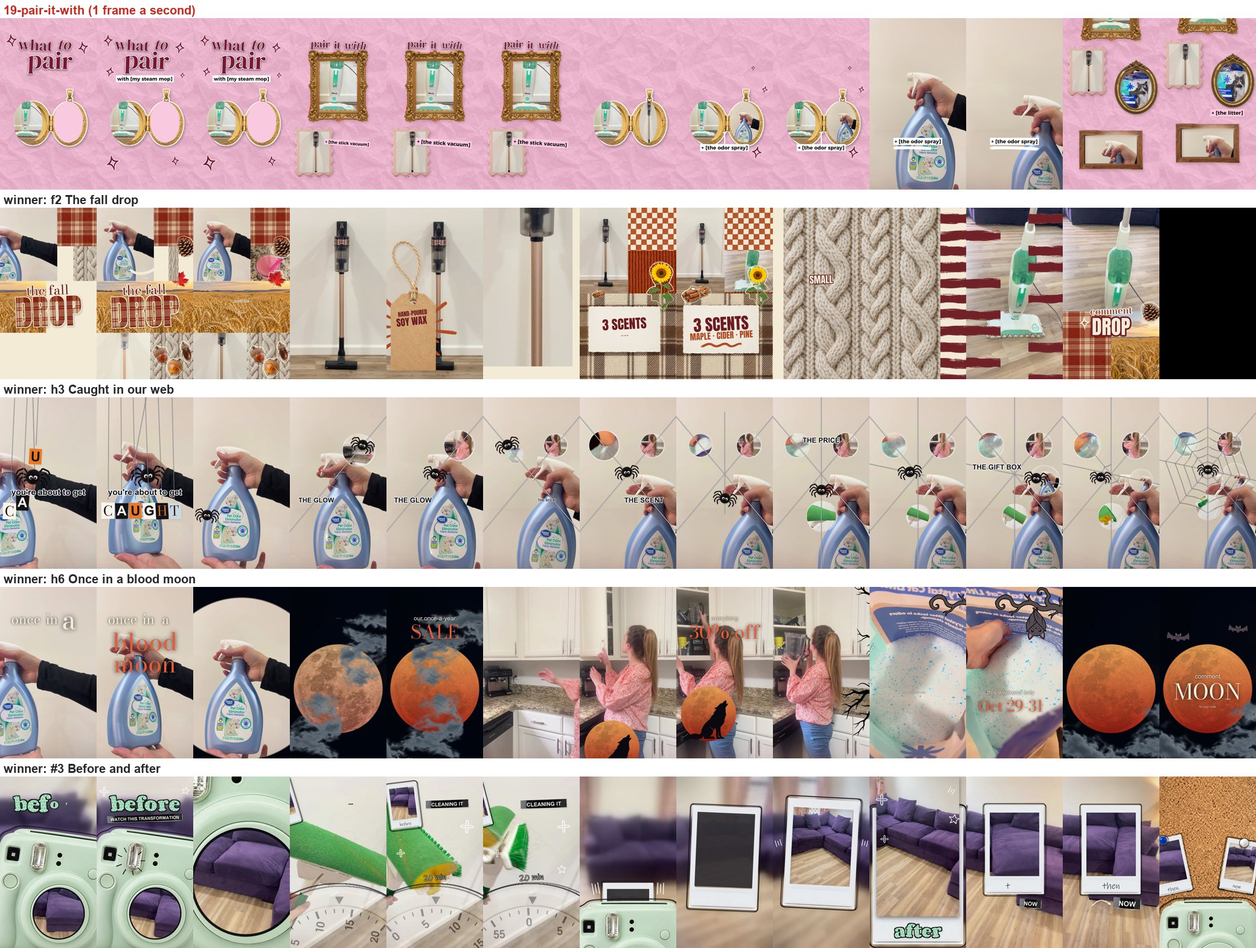
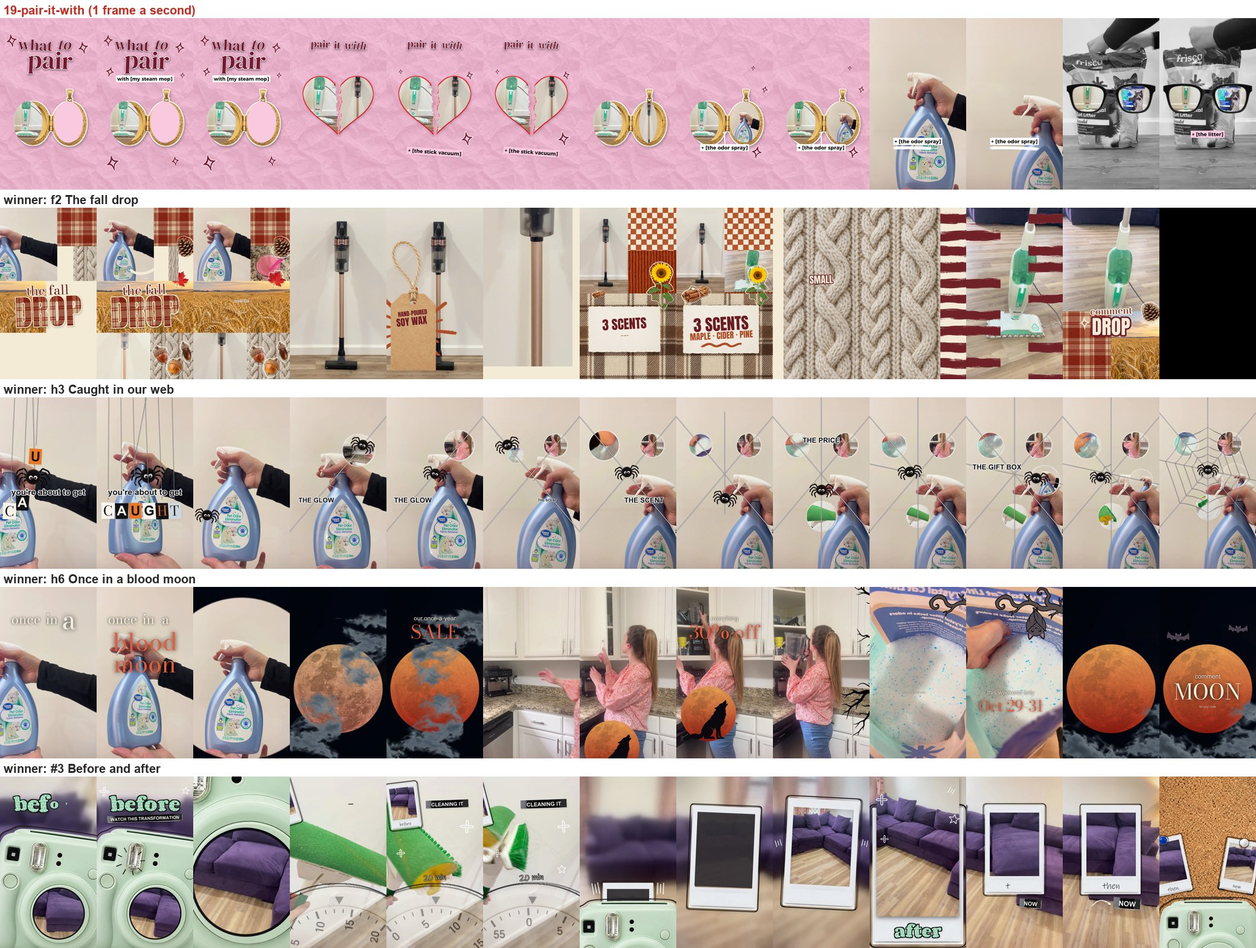
Reel Template Packs #19 rebuilt around pairs (locket halves, torn heart halves, glasses lenses); gallery wall saved as a product-Reel idea in FRAMEWORK

Changed region(s): [[0.8438, 0.0, 1.0, 0.2185], [0.2188, 0.0312, 0.4688, 0.1873]]

diff --git a/automation/reel-template-pack/build/motion_19.py b/automation/reel-template-pack/build/motion_19.py
@@ -19,13 +19,14 @@ Usage: python build/motion_19.py [seconds ...]  ->  19-pair-it-with/preview/moti
 """
 import math, sys
 from pathlib import Path
-from PIL import Image, ImageDraw, ImageOps
+from PIL import Image, ImageChops, ImageDraw, ImageOps
 sys.path.insert(0, str(Path(__file__).resolve().parent))
 import collage as C
+from PIL import ImageFilter
 import storyboard_b2 as S
 import play as P
 import play_extra as X
-from story4 import swipe, diagonal
+from story4 import swipe, diagonal, roundwin
 from collage_kit import doodle, doodle_on
 from motion_b2 import Clip, put, render, camera, ease, back_out, seg, lerp, lerp2, W, H, WHITE
 
@@ -48,6 +49,16 @@ def setup():
                    'pink': (fr_('Blush pink scalloped portrait frame-5', 470), (0.22, 0.175, 0.80, 0.82), True),
                    'oval': (fr_('Vintage oval brass frame with floral crest-4', 480), (0.10, 0.20, 0.90, 0.89), False),
                    'walnut': (fr_('Empty walnut picture frame-2', 720), (0.086, 0.12, 0.914, 0.88), False)}
+    # things that come in pairs (her note): a torn paper heart's two halves, glasses' two lenses
+    h = S.fitw(S.cut('images', 'Torn red paper heart halves-91.png', tol=18), 820); hm = h.split()[3].point(lambda v: 255 if v > 100 else 0)
+    left = hm.copy(); ImageDraw.floodfill(left, (int(h.width * 0.22), int(h.height * 0.4)), 128); left = left.point(lambda v: 255 if v == 128 else 0)
+    right = ImageChops.subtract(hm, left); g['heart'] = (h, left, right)
+    gl = S.fitw(S.cut('fall', 'Bold black acetate eyeglass front frame-4.png', tol=18, holes=((0.27, 0.5), (0.73, 0.5))), 1000)
+    lens = []
+    for fx in (0.27, 0.73):
+        m = Image.new('L', gl.size, 0); a = gl.split()[3].point(lambda v: 0 if v > 60 else 255); ImageDraw.floodfill(a, (int(gl.width * fx), int(gl.height * 0.5)), 128)
+        lens.append(a.point(lambda v: 255 if v == 128 else 0))
+    g['glasses'] = (gl, lens)
     g['tea'] = P.thing('Vintage Rose Porcelain Tea Set.png', 820, 'smalldots', WINE, scale=0.3, strength=0.35)
     g['what'] = P.caption('what to', 190, INK); g['pairw'] = P.caption('pair', 300, INK); g['with'] = X.hl('with [my steam mop]', 60, WHITE)
     g['plus'] = [X.hl(t, 62, (PINK, WHITE, PINK)[i]) for i, t in enumerate(('+ [the stick vacuum]', '+ [the odor spray]', '+ [the litter]'))]
@@ -85,9 +96,9 @@ def frame(g, t):
         P.say(im, g['what'], t, 0.05, (500, 300), -3); P.say(im, g['pairw'], t, 0.25, (560, 500), -2); P.say(im, g['with'], t, 0.55, (540, 680), 2)
         X.sparkles(im, t, 0.3, [(130, 250), (930, 330), (150, 600), (960, 640), (880, 1600), (180, 1620)], WINE, 170)
         return im
-    if t < 3.6:                                                    # 2: the gallery wall: the product in the gold frame, pairing 1 in the pink one
-        im = gallery(g, t, 0, 1.0, {'gold': c['main'].at(t), 'pink': c['p1'].at(t - 1.8)}, pink_in=1.9)
-        P.say(im, g['pair1'], t, 1.95, (540, 300), -2); P.say(im, g['plus'][0], t, 2.3, (640, 1400), -2)
+    if t < 3.6:                                                    # 2: a torn paper heart: the product in one half, pairing 1 in the other
+        im = heart(g, t, c['main'].at(t), c['p1'].at(t - 1.8))
+        P.say(im, g['pair1'], t, 1.95, (540, 300), -2); P.say(im, g['plus'][0], t, 2.6, (540, 1500), -2)
         if t < 1.95: im = diagonal(locket(g, t, c['main'].at(t), PINK), im, seg(t, 1.8, 1.95))
         if t > 3.35: im = swipe(im, close3(g, 3.6), seg(t, 3.35, 3.6), -1)
         return im
@@ -99,10 +110,9 @@ def frame(g, t):
         im = c['p2'].at(t - 3.8); P.say(im, g['plus'][1], t, 5.25, (540, 1380), 2); doodle_on(im, t, 5.6, g['under'], (540, 1460), -2)
         if t > 6.55: im = swipe(im, diag5(g, 6.8), seg(t, 6.55, 6.8))
         return im
-    if t < 8.4:                                                    # 5: the camera pans down the wall: pairing 3 in the oval frame
-        y = lerp(400, 980, ease(seg(t, 6.8, 7.4)))
-        im = gallery(g, t, y, 1.0, {'gold': c['main'].at(t), 'pink': c['p1'].at(t - 1.8), 'walnut': c['p2'].at(t - 3.8), 'oval': c['p3'].at(t - 6.8)})
-        P.say(im, g['plus'][2], t, 7.45, (760, 1060), 2)
+    if t < 8.4:                                                    # 5: glasses: the product in one lens, pairing 3 in the other
+        im = glasses(g, t, c['main'].at(t), c['p3'].at(t - 6.8))
+        P.say(im, g['plus'][2], t, 7.3, (540, 1300), 2)
         if t > 8.15: im = diagonal(im, stage6(g, t), seg(t, 8.15, 8.4))
         return im
     if t < 10.0:
@@ -131,6 +141,26 @@ def gallery(g, t, view_y, zoom, clips, pink_in=None):
     if zoom >= 1: return wall.crop((0, y, W, y + H))
     view = Image.new('RGBA', (vw, vh)); view.alpha_composite(g['stripes'].resize((vw, vh)), (0, 0)); view.alpha_composite(wall.crop((0, y, W, min(GH, y + vh))), (-x, 0))
     return view.resize((W, H), Image.BILINEAR)
+
+def heart(g, t, a, b):
+    """The two torn halves of a real paper heart slide together; the product plays in the left half, the pairing in the
+    right (the torn white edge stays)."""
+    h, left, right = g['heart']; im = g['stripes'].copy(); u = back_out(seg(t, 1.9, 2.5), 1.2); gap = lerp(300, 0, u)
+    for side, (m, cl) in enumerate(((left, a), (right, b))):
+        half = Image.new('RGBA', h.size, (0, 0, 0, 0)); half.alpha_composite(h); half.putalpha(m)
+        bb = m.getbbox(); v = Image.new('RGBA', h.size, (0, 0, 0, 0)); v.paste(ImageOps.fit(cl, (bb[2] - bb[0], bb[3] - bb[1]), centering=(0.5, 0.45)).convert('RGBA'), bb[:2])
+        v.putalpha(m.filter(ImageFilter.MinFilter(17))); half.alpha_composite(v); x = 540 + (-gap if side == 0 else gap); put(im, C.shadow(half, (8, 14), 14, 110), (x, 980), 1, (-6, 6)[side] * (1 - u))
+    if u >= 0.98: X.sparkles(im, t, 2.55, [(160, 600), (930, 640), (900, 1350)], WINE, 140)
+    return im
+
+def glasses(g, t, a, b):
+    """Glasses: colour inside the lenses, greyscale outside (her idea bank): the product in the left lens, the pairing in
+    the right, the pairing's clip in grey behind."""
+    gl, lens = g['glasses']; im = ImageOps.grayscale(b.convert('RGB')).convert('RGBA'); k = back_out(seg(t, 6.8, 7.2), 1.3)
+    for m, cl in zip(lens, (a, b)):
+        bb = m.getbbox(); v = Image.new('RGBA', gl.size, (0, 0, 0, 0)); v.paste(ImageOps.fit(cl, (bb[2] - bb[0], bb[3] - bb[1]), centering=(0.5, 0.45)).convert('RGBA'), bb[:2]); v.putalpha(m); im.alpha_composite(v, (int(540 - gl.width / 2), int(lerp(-400, 900, k) - gl.height / 2)))
+    put(im, gl, (540, lerp(-400, 900, k)))
+    return im
 
 def split2(g, t, a, b):
     im = g['stripes'].copy(); w, h = 500, 1180
@@ -164,15 +194,8 @@ def cta(g, t):
     """CTA (a new scene, her note): the product full frame, the three pairings in their real frames pinned along the top;
     the bundle name on its own at the top, the keyword on its own in the middle (they no longer compete)."""
     c = g['c']; im = c['main'].at(t).copy()
-    for i, (name, cl, t0, x) in enumerate((('pink', c['p1'], 1.8, 190), ('oval', c['p3'], 6.8, 540), ('walnut', c['p2'], 3.8, 890))):
-        fim, (x0, y0, x1, y1), top = g['frames'][name]; sc = 0.66 if name != 'walnut' else 0.5
-        f2 = fim.resize((int(fim.width * sc), int(fim.height * sc))); ow, oh = int(f2.width * (x1 - x0)), int(f2.height * (y1 - y0))
-        v = ImageOps.fit(cl.at(t - t0), (ow + 6, oh + 6), centering=(0.5, 0.35)).convert('RGBA')
-        if name == 'oval': v.putalpha(oval_mask(v.size))
-        tile = Image.new('RGBA', f2.size, (0, 0, 0, 0)); xy = (int(f2.width * x0) - 3, int(f2.height * y0) - 3)
-        if top: tile.alpha_composite(f2); tile.alpha_composite(v, xy)
-        else: tile.alpha_composite(v, xy); tile.alpha_composite(f2)
-        put(im, tile, (x, lerp(-300, 520, back_out(seg(t, 10.0 + i * 0.12, 10.35 + i * 0.12), 1.4))), 1, (-6, 3, 7)[i])
+    for i, (cl, t0, x) in enumerate(((c['p1'], 1.8, 200), (c['p3'], 6.8, 540), (c['p2'], 3.8, 880))):   # the pairings in round windows
+        put(im, roundwin(cl.at(t - t0, (280, 280)), 280), (x, lerp(-300, 470, back_out(seg(t, 10.0 + i * 0.12, 10.35 + i * 0.12), 1.4))), 1)
     P.say(im, g['bname'], t, 10.3, (540, 860), -2)
     P.say(im, g['comment'], t, 10.6, (540, 1150), -3); P.say(im, g['kw'], t, 10.85, (540, 1330), 2)
     return im

diff --git a/automation/reel-template-pack/FRAMEWORK.md b/automation/reel-template-pack/FRAMEWORK.md
@@ -572,3 +572,8 @@ Showing her work
   the product/bundle name get separate spots** so they don't compete. **Props must match the product world** (a tea
   set in a cleaning Reel didn't). **Repeated structures stay consistent** (if rounds 1 and 2 ring the bell, round 3
   does too). Crop clips in small frames so the product shows, not a hand.
+- **Gallery wall (her pick, 2026-10-19): "a great product Reel."** Her real frames (ornate gold, scalloped pink, oval
+  brass, walnut, silver Art Deco, black gallery) hung on a calm wall, a different clip in each, the camera panning and
+  pulling back (built in build/motion_19.py `gallery()`). Use it for a product showcase template, not "pair it with".
+- **#19 Pair it with = things that come in pairs** (her note): the locket's two halves, a heart torn in two halves,
+  glasses with a clip in each lens: product in one half, the pairing in the other.
